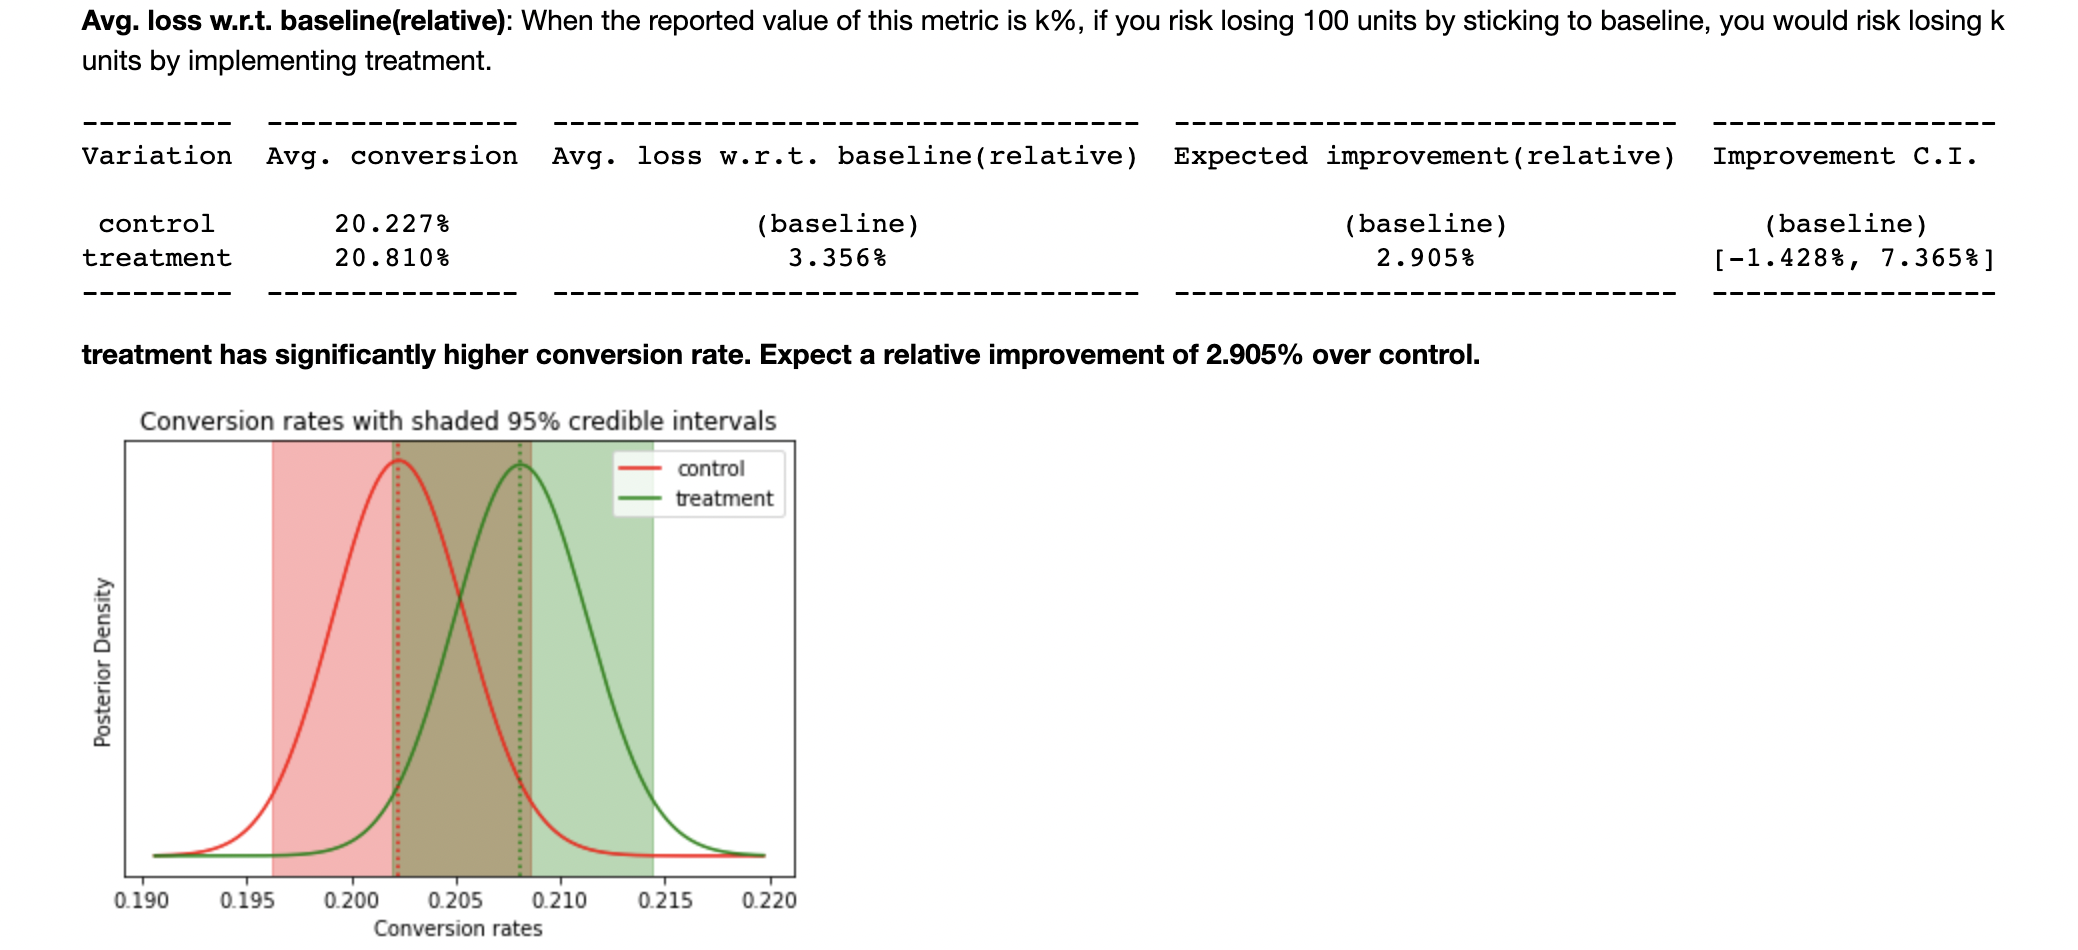
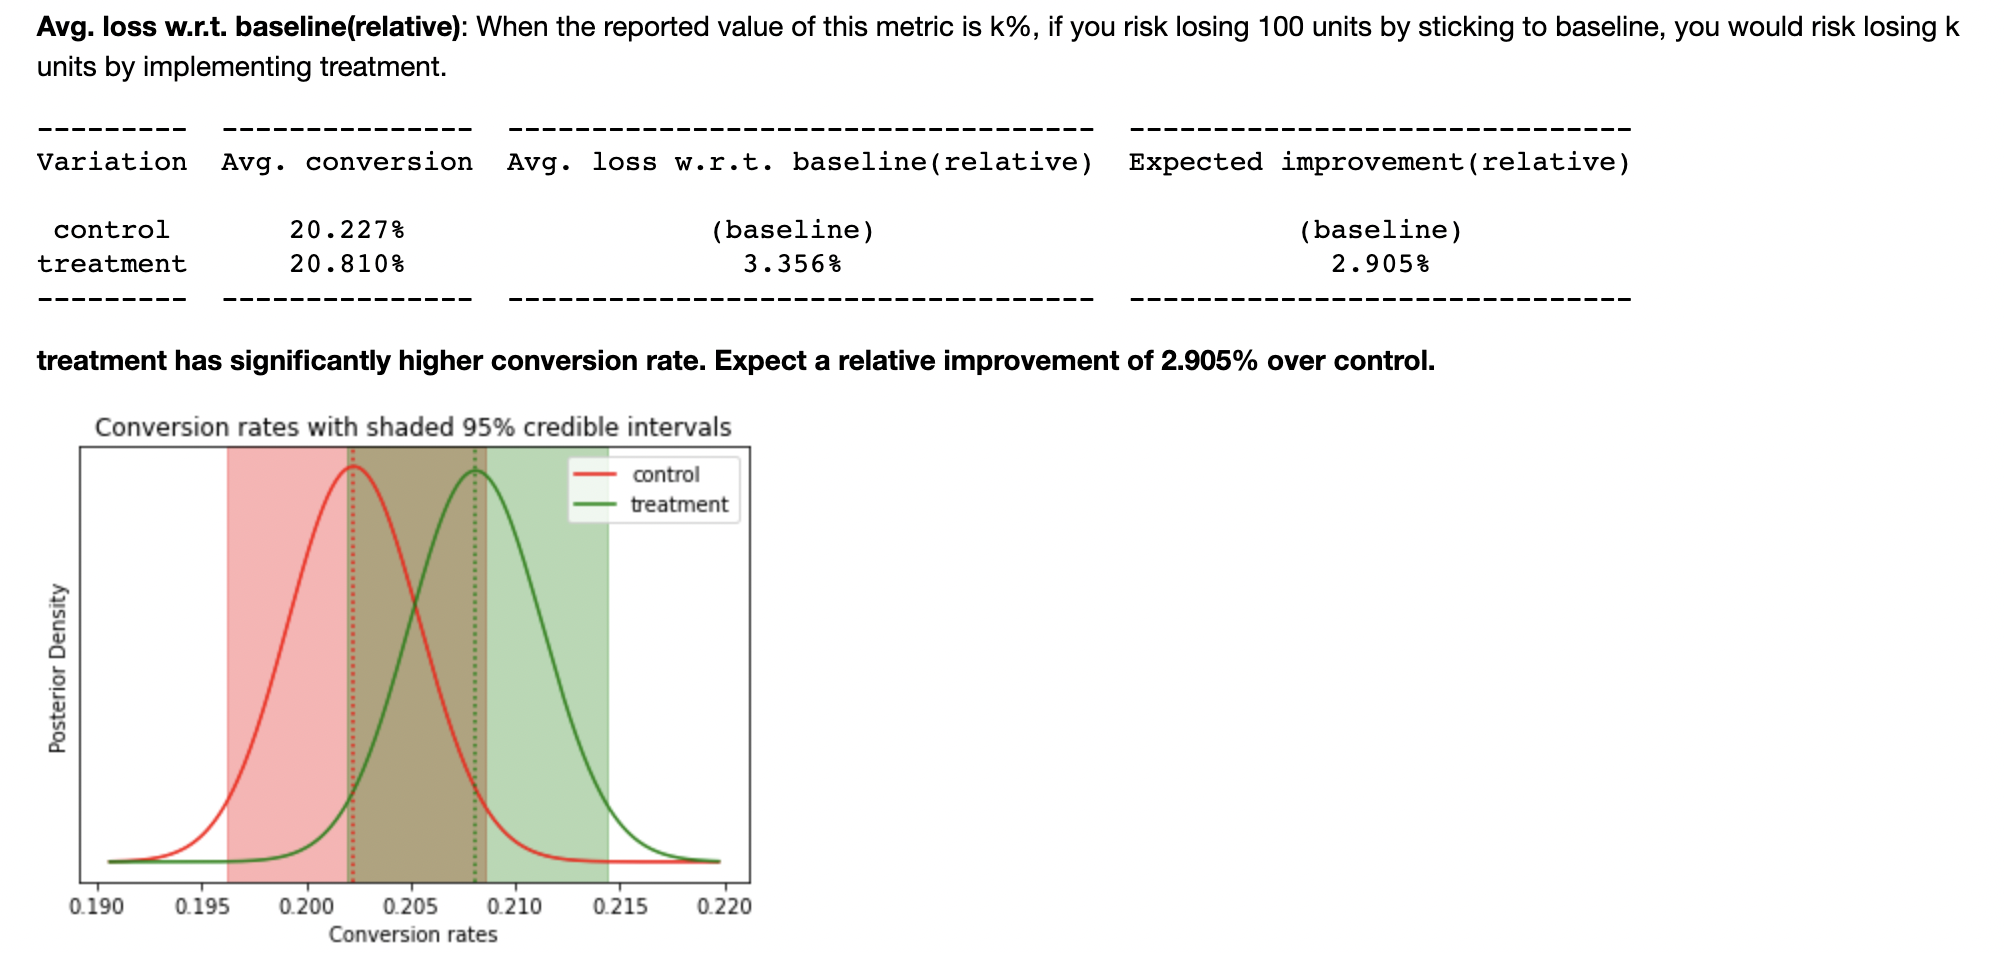
image update

diff --git a/testing package/mypackage/conduct.py b/testing package/mypackage/conduct.py
@@ -241,14 +241,14 @@ Parameters:
     
     variation2_lift = ((variation2_cr_samples - variation1_cr_samples)/variation1_cr_samples)
     variation2_exp_lift = variation2_lift.mean() ##to be reported as the expected improvement
-    variation2_exp_lift_interval = np.quantile(variation2_lift, [0.025, 0.975], axis = 0) ##to be reported as the Improvement C.I.
+    
     variation2_won = (variation2_cr_samples >= variation1_cr_samples).astype(int)
     variation1_exp_loss, variation2_exp_loss = calculate_expected_loss(variation1_cr_samples, variation2_cr_samples, variation2_won) ### Calling the calculate_expected_loss function to find the variation 1 and variation 2 expected losses
     
     ### Create the table which will be displayed to user
-    report_table = tabulate([['Variation', 'Avg. conversion', 'Avg. loss w.r.t. baseline(relative)', 'Expected improvement(relative)', 'Improvement C.I.'], [None, None, None, None, None],
-                   [f'{variation1_name}', f'{variation1_expected_cr*100:.3f}%', '(baseline)', '(baseline)', '(baseline)'],
-                   [f'{variation2_name}', f'{variation2_expected_cr*100:.3f}%', f'{variation2_exp_loss/variation1_exp_loss*100:.3f}%', f'{variation2_exp_lift*100:.3f}%', f'[{variation2_exp_lift_interval[0]*100:.3f}%, {variation2_exp_lift_interval[1]*100:.3f}%]']], numalign = "right", stralign = "center")
+    report_table = tabulate([['Variation', 'Avg. conversion', 'Avg. loss w.r.t. baseline(relative)', 'Expected improvement(relative)'], [None, None, None, None],
+                   [f'{variation1_name}', f'{variation1_expected_cr*100:.3f}%', '(baseline)', '(baseline)'],
+                   [f'{variation2_name}', f'{variation2_expected_cr*100:.3f}%', f'{variation2_exp_loss/variation1_exp_loss*100:.3f}%', f'{variation2_exp_lift*100:.3f}%']], numalign = "right", stralign = "center")
     
     
     ### conclusion criterions for a Bayesian A/B test
